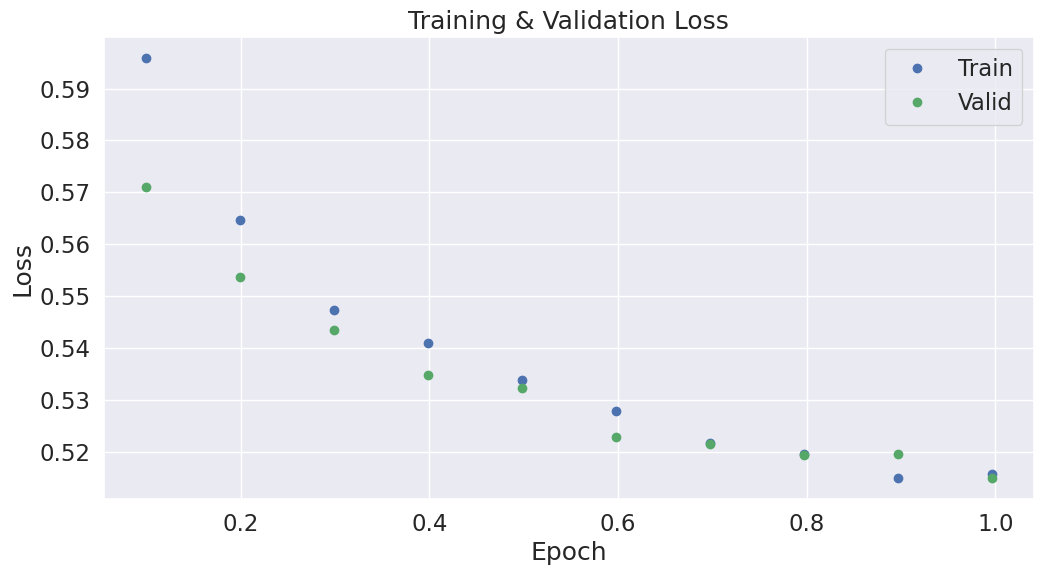
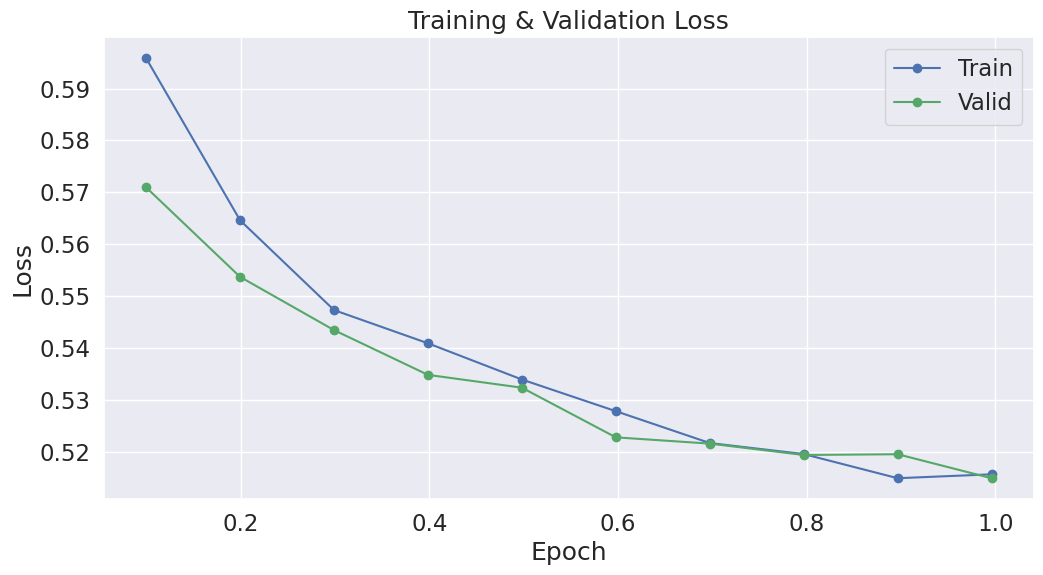
loss plot

diff --git a/loss.py b/loss.py
@@ -1,0 +1,19 @@
+import matplotlib.pyplot as plt
+import seaborn as sns
+import torch
+
+def plot_loss(metrics):
+    train, valid, epoch = metrics['train_loss_list'], metrics['valid_loss_list'], metrics['epoch_list']
+    sns.set(style='darkgrid')
+    sns.set(font_scale=1.5)
+    plt.rcParams["figure.figsize"] = (12,6)
+    plt.title("Training & Validation Loss")
+    plt.plot(epoch, train, 'b-o', label='Train')
+    plt.plot(epoch, valid, 'g-o', label='Valid')
+    plt.xlabel('Epoch')
+    plt.ylabel('Loss')
+    plt.legend()
+    plt.savefig('loss.png', bbox_inches='tight')
+
+source_folder = '/home/j/joonjie/project'
+plot_loss(metrics=torch.load(source_folder + '/metrics.pt'))
